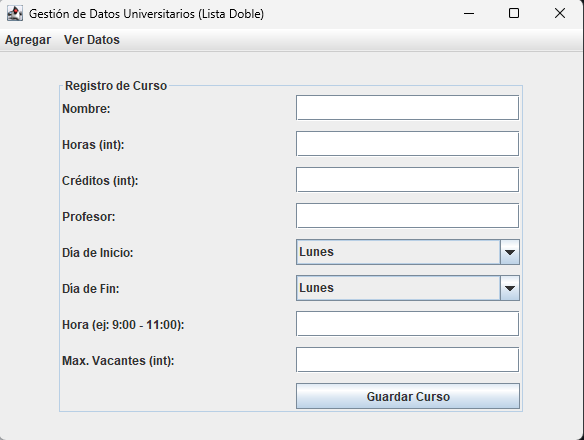
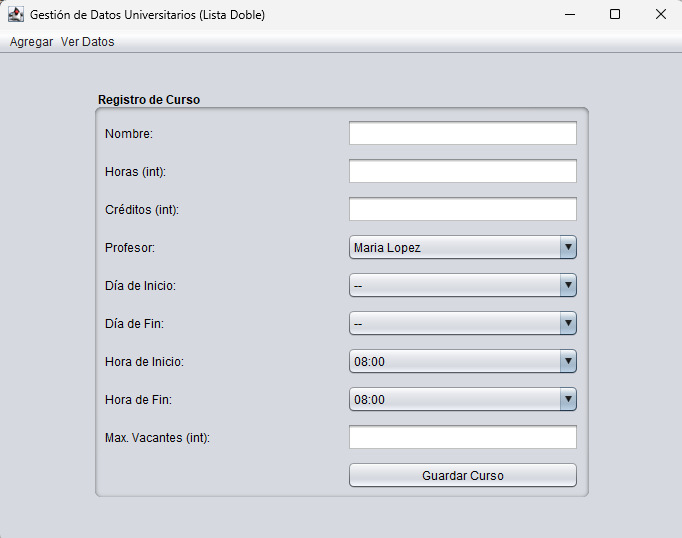
comboBox para seleccionar profesor

Changed region(s): [[0.0925, 0.1773, 0.8938, 0.9455], [0.0, 0.0, 1.0, 1.0], [0.8938, 0.0, 0.9247, 0.0295]]

diff --git a/src/main/java/UI/frmAdd.java b/src/main/java/UI/frmAdd.java
@@ -8,6 +8,7 @@ import Modelo.Docente;
 import Modelo.Alumno;
 import Modelo.Curso;
 import Structure.genericListaDoble;
+import Structure.genericNode;
 import Structure.globalVariables;
 
 import javax.swing.*;
@@ -25,9 +26,8 @@ public class frmAdd extends JFrame {
 	public frmAdd() {
 		super("Gestión de Datos Universitarios (Lista Doble)");
 
-		// Configuración de la ventana principal
 		setDefaultCloseOperation(JFrame.EXIT_ON_CLOSE);
-		setSize(600, 450); // Aumentado ligeramente el tamaño
+		setSize(700, 550); 
 
 		cardLayout = new CardLayout();
 		mainPanel = new JPanel(cardLayout);
@@ -198,20 +198,45 @@ public class frmAdd extends JFrame {
 	}
 
 	private JPanel crearPanelCurso() {
-		JPanel panel = new JPanel(new GridLayout(9, 2, 10, 10));
+		JPanel panel = new JPanel(new GridLayout(10, 2, 10, 10));
 		panel.setBorder(BorderFactory.createTitledBorder("Registro de Curso"));
 
 		// horario clases
 		String[] diasSemana= { "--", "Lunes", "Martes", "Miércoles", "Jueves", "Viernes", "Sábado", "Domingo" };
 
+		// horarios +30min
+		String[] horasDisponibles = new String[29];
+		int count = 0;
+		for (int h = 8; h <= 22; h++) {
+			horasDisponibles[count++] = String.format("%02d:00", h);
+			if (h < 22) { // No queremos 20:30
+				horasDisponibles[count++] = String.format("%02d:30", h);
+			}
+		}
+		// docentes registrados
+		String[] nombresDocentes;
+		if (docentes.getTamaño()> 0) {
+			nombresDocentes = new String[docentes.getTamaño()]; 
+
+			genericNode<Docente> actual = docentes.getCabeza();
+			int i = 0;
+			while (actual != null) {
+				nombresDocentes[i++] = actual.getDato().getNombre();
+				actual = actual.getSiguiente();
+			}
+		} else {
+			nombresDocentes = new String[]{"-- No hay docentes registrados --"};
+		}
+
 		JComboBox<String> cmbDiaInicio = new JComboBox<>(diasSemana);
 		JComboBox<String> cmbDiaFin = new JComboBox<>(diasSemana);
+		JComboBox<String> cmbHoraInicio = new JComboBox<>(horasDisponibles);
+		JComboBox<String> cmbHoraFin = new JComboBox<>(horasDisponibles);
+		JComboBox<String> cmbProfesor = new JComboBox<>(nombresDocentes);
 
 		JTextField txtName = new JTextField(20);
 		JTextField txtHours = new JTextField(20);
 		JTextField txtCredits = new JTextField(20);
-		JTextField txtProfesor = new JTextField(20);
-		// JTextField txtHorario = new JTextField(20);
 		JTextField txtMaxVacantes = new JTextField(20);
 
 		panel.add(new JLabel("Nombre:"));
@@ -220,17 +245,18 @@ public class frmAdd extends JFrame {
 		panel.add(txtHours);
 		panel.add(new JLabel("Créditos (int):"));
 		panel.add(txtCredits);
-		panel.add(new JLabel("Profesor:"));
-		panel.add(txtProfesor);
 
+		panel.add(new JLabel("Profesor:"));
+		panel.add(cmbProfesor);
 		panel.add(new JLabel("Día de Inicio:"));
 		panel.add(cmbDiaInicio);
 		panel.add(new JLabel("Día de Fin:"));
 		panel.add(cmbDiaFin);
-		// 
-		JTextField txtHora = new JTextField(20);
-		panel.add(new JLabel("Hora (ej: 9:00 - 14:00):"));
-		panel.add(txtHora);
+
+		panel.add(new JLabel("Hora de Inicio:"));
+		panel.add(cmbHoraInicio);
+		panel.add(new JLabel("Hora de Fin:"));
+		panel.add(cmbHoraFin);
 		
 		panel.add(new JLabel("Max. Vacantes (int):"));
 		panel.add(txtMaxVacantes);
@@ -241,18 +267,24 @@ public class frmAdd extends JFrame {
 				String name = txtName.getText();
 				int hours = Integer.parseInt(txtHours.getText());
 				int credits = Integer.parseInt(txtCredits.getText());
-				String profesor = txtProfesor.getText();
 				int maxVacantes = Integer.parseInt(txtMaxVacantes.getText());
 
-				// construcción del horario a partir de los combobox y el campo de texto de hora
+				String profesor = (String) cmbProfesor.getSelectedItem();
+				if (profesor.equals("-- No hay docentes registrados --")) {
+					JOptionPane.showMessageDialog(this, "ERROR: Debe registrar docentes antes de crear un curso.", "Error de Datos", JOptionPane.ERROR_MESSAGE);
+					return;
+				}
+
+				// horario combobox
 				String diaInicio = (String) cmbDiaInicio.getSelectedItem();
 				String diaFin = (String) cmbDiaFin.getSelectedItem();
-				String hora = txtHora.getText();
+				String horaInicio = (String) cmbHoraInicio.getSelectedItem();
+				String horaFin = (String) cmbHoraFin.getSelectedItem();
 
 				// Creación del string Horario: "Lunes-Martes 9:00 - 11:00"
-				String horarioFinal = diaInicio + "-" + diaFin + " " + hora;
+				String horarioFinal = diaInicio + "-" + diaFin + " " + horaInicio + "-" + horaFin;
 
-				if (name.isEmpty() || profesor.isEmpty() || hora.isEmpty()) {
+				if (name.isEmpty()) {
 					JOptionPane.showMessageDialog(this, "Los campos de texto son obligatorios.", "Error", JOptionPane.ERROR_MESSAGE);
 					return;
 				}
@@ -263,10 +295,15 @@ public class frmAdd extends JFrame {
 					return;
 				}
 
+				// hora inicio no sea igual o posterior a fin
+				if (horaInicio.compareTo(horaFin) >= 0) {
+					JOptionPane.showMessageDialog(this, "La Hora de Inicio debe ser anterior a la Hora de Fin.", "Error de Horario", JOptionPane.ERROR_MESSAGE);
+					return;
+				}
+
 				// unico dia
 				if (diaFin.equals("--")) {
-					System.out.println(diaInicio +" " + hora);
-					horarioFinal = diaInicio +  " " + hora;
+					horarioFinal = diaInicio +  " " + horaInicio + "-" + horaFin;
 				}
 
 				Curso nuevoCurso = new Curso(name, hours, credits, profesor, horarioFinal, maxVacantes);
@@ -274,18 +311,19 @@ public class frmAdd extends JFrame {
 				// uso de listadoble
 				cursos.agregarAlFinal(nuevoCurso);
 
-				JOptionPane.showMessageDialog(this, "Curso registrado: " + nuevoCurso.getName());
+				JOptionPane.showMessageDialog(this, "Curso registrado: " + nuevoCurso.getName() + " horario: " + horarioFinal);
 
 				txtName.setText("");
 				txtHours.setText("");
 				txtCredits.setText("");
-				txtProfesor.setText("");
-				txtHora.setText("");
 				txtMaxVacantes.setText("");
 
 				// los combobox regresan al primer elemento por defecto
+				cmbProfesor.setSelectedIndex(0);
 				cmbDiaInicio.setSelectedIndex(0); 
 				cmbDiaFin.setSelectedIndex(0);
+				cmbHoraInicio.setSelectedIndex(0);
+				cmbHoraFin.setSelectedIndex(0);
 
 			} catch (NumberFormatException ex) {
 				JOptionPane.showMessageDialog(this, "Las Horas, Créditos y Vacantes deben ser números enteros válidos.", "Error de Formato", JOptionPane.ERROR_MESSAGE);
